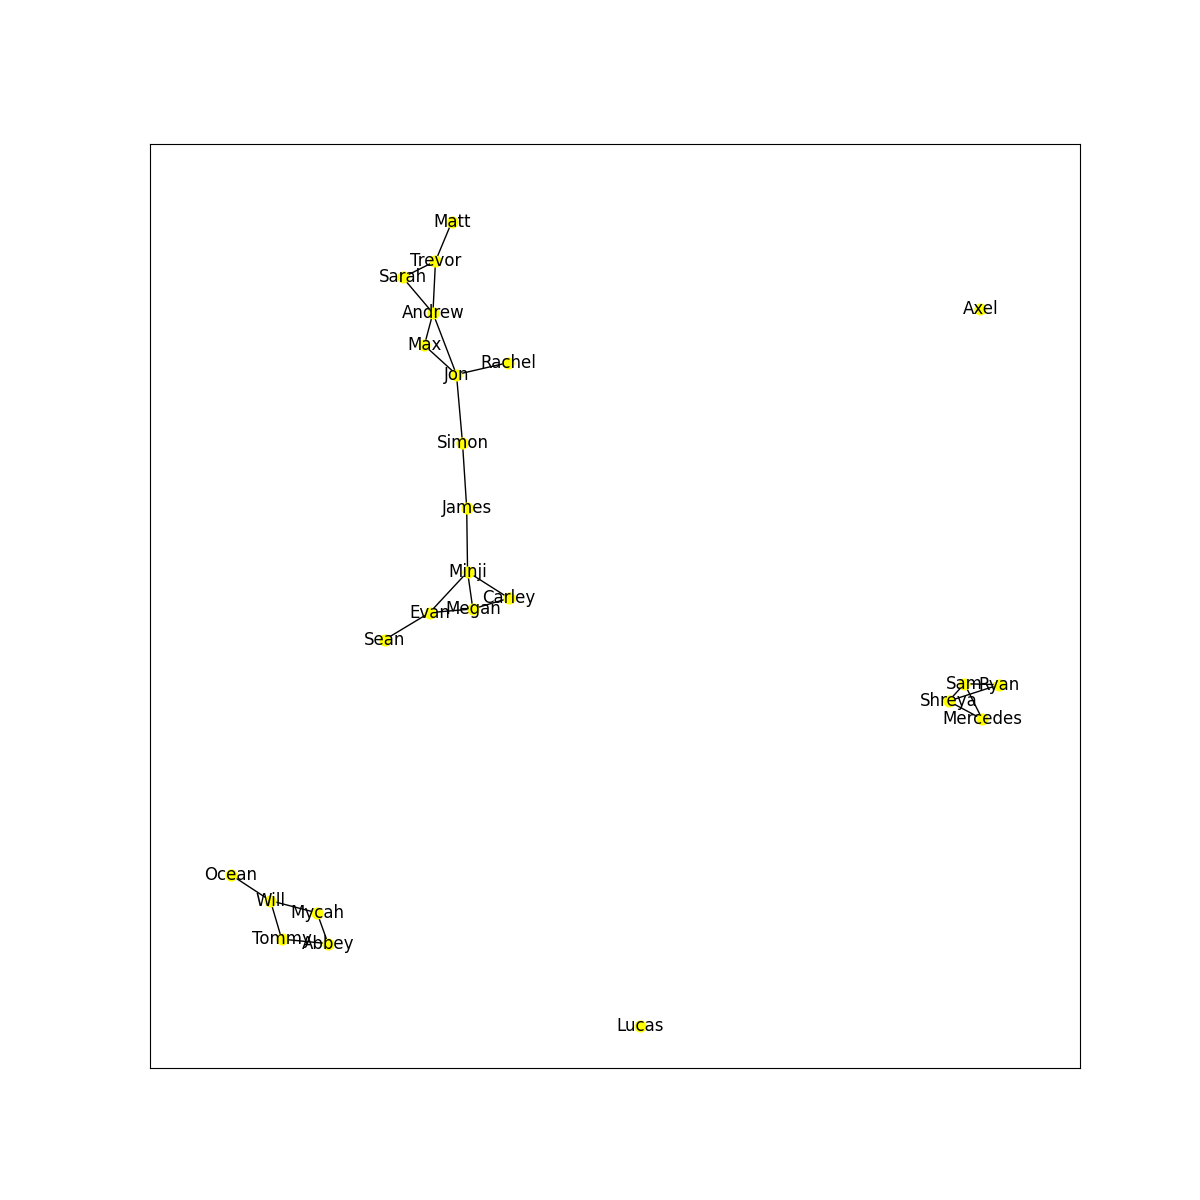
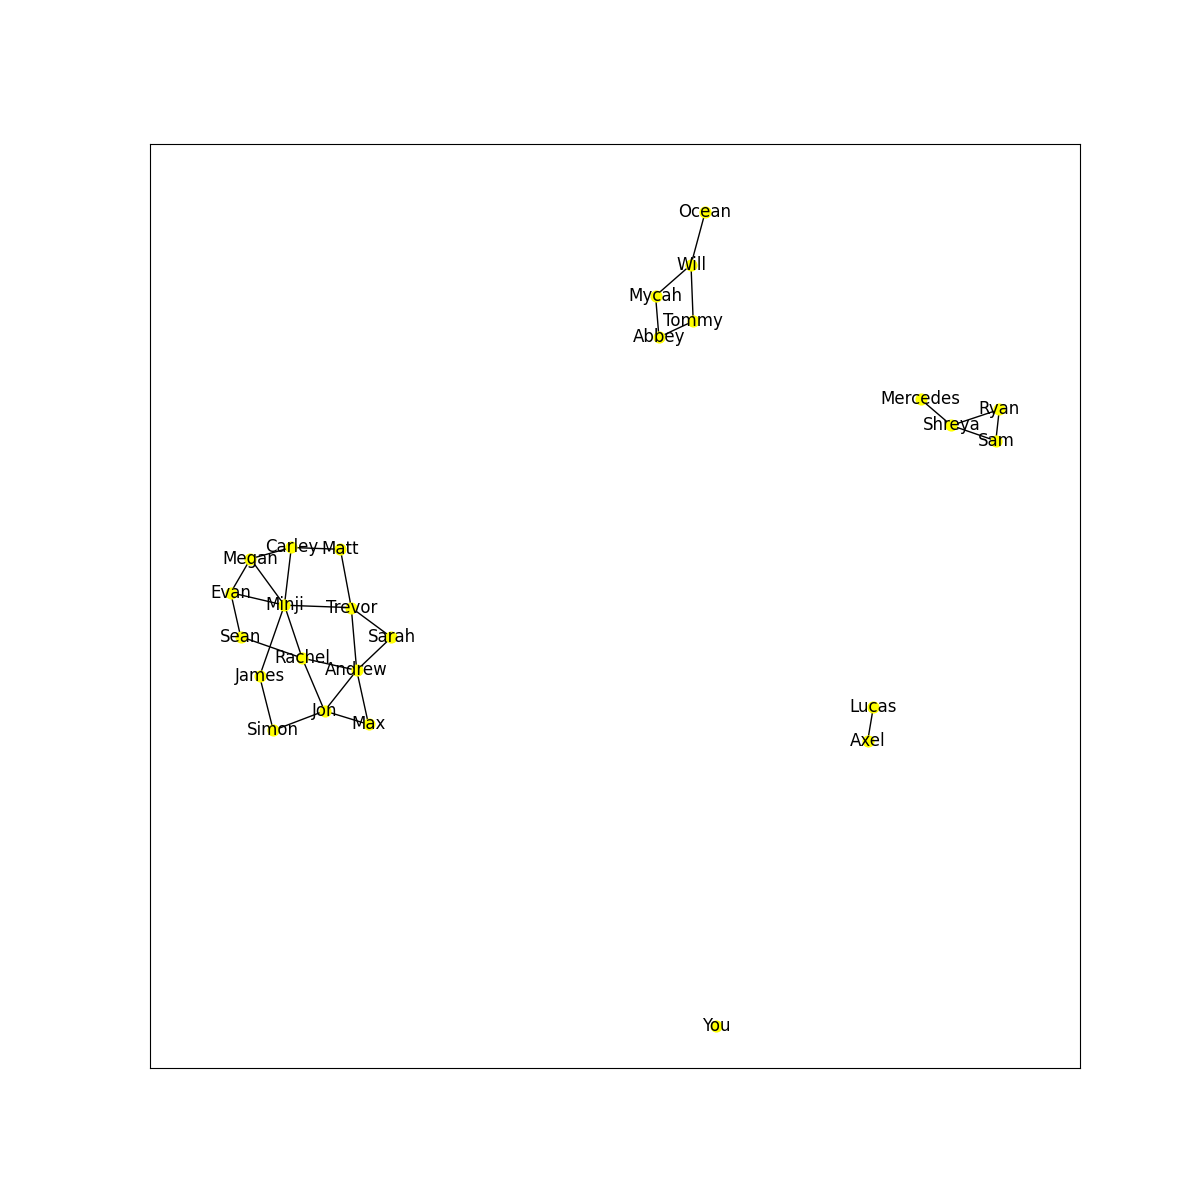
its fine

diff --git a/friendship.py b/friendship.py
@@ -20,37 +20,38 @@ decent solution.
 '''
 
 graph = {
-    'Rachel': {'Jon': {}},
+    'Rachel': {'Jon': {}, 'Sean': {}, 'Minji': {}},
     'Will': {'Mycah': {}, 'Ocean': {}, 'Tommy': {}},
-    'Carley': {'Megan': {}, 'Minji': {}},
+    'Carley': {'Megan': {}, 'Minji': {}, 'Matt': {}},
     'Mycah': {'Will': {}, 'Abbey': {}},
     'Jon': {'Rachel': {}, 'Simon': {}, 'Andrew': {}, 'Max': {}},
     'Ocean': {'Will': {}},
-    'Andrew': {'Jon': {}, 'Trevor': {}, 'Max': {}, 'Sarah': {}},
+    'Andrew': {'Jon': {}, 'Trevor': {}, 'Max': {}, 'Sarah': {}, 'Rachel': {}},
     'Sarah': {'Andrew': {}, 'Trevor': {}},
-    'Trevor': {'Matt': {}, 'Sarah': {}, 'Andrew': {}},
+    'Trevor': {'Matt': {}, 'Sarah': {}, 'Andrew': {}, 'Minji':{}},
     'Max': {'Andrew': {}, 'Jon': {}},
-    'Axel': {},
+    'Axel': {'Lucas': {}},
     'James': {'Simon': {}},
     'Simon': {'James': {}, 'Jon': {}},
     'Evan': {'Megan': {}, 'Minji': {}, 'Sean': {}},
-    'Sean': {'Evan': {}},
+    'Sean': {'Evan': {}, 'Rachel': {}},
     'Tommy': {'Abbey': {}, 'Will': {}},
     'Megan': {'Minji': {}, 'Carley': {}, 'Evan': {}},
     'Abbey': {'Mycah': {}, 'Tommy': {}},
     'Matt': {'Trevor': {}},
-    'Minji': {'Evan': {}, 'Megan': {}, 'Carley': {}, 'James': {}},
+    'Minji': {'Evan': {}, 'Megan': {}, 'Carley': {}, 'James': {}, 'Rachel': {}},
     'James': {'Minji': {}},
     'Ryan': {'Shreya': {}, 'Sam': {}},
-    'Sam': {'Mercedes': {}, 'Shreya': {}, 'Ryan': {}},
+    'Sam': {'Shreya': {}, 'Ryan': {}},
     'Shreya': {'Ryan': {}, 'Mercedes': {}, 'Sam': {}},
-    'Mercedes': {'Shreya': {}, 'Sam': {}},
-    'Lucas': {},
+    'Mercedes': {'Shreya': {}},
+    'Lucas': {'Axel': {}},
+    'You': {}
 }
 
 G = nx.from_dict_of_dicts(graph)
 
-pos = nx.spring_layout(G, seed=1)
+pos = nx.spring_layout(G, seed=2)
 plt.figure(1, figsize=(12,12))
 nx.draw_networkx(G, pos, node_size=60, node_color='yellow', with_labels=True)
 plt.savefig("init_graph.png")
